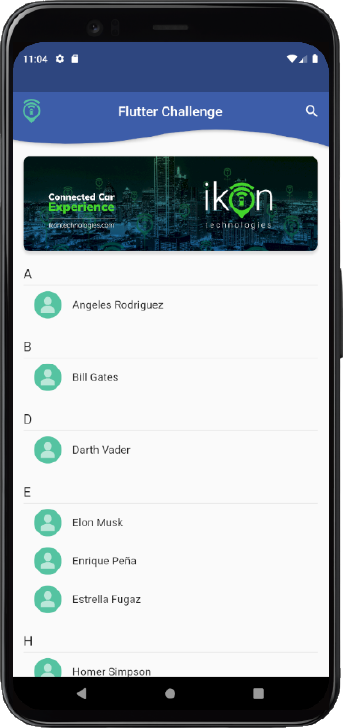
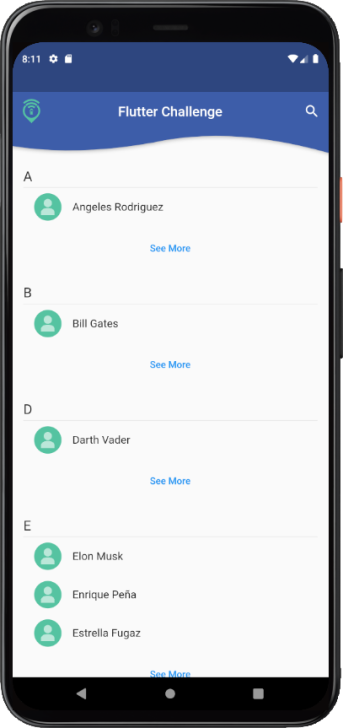
Flutter Challenge v1.0.0 - Jorge Zaragoza
+ Implementación de arquitectura ChangeNotifier + Provider.

diff --git a/lib/widgets/groupview_widget.dart b/lib/widgets/groupview_widget.dart
@@ -1,31 +1,25 @@
 import 'package:flutter/material.dart';
+import 'package:provider/provider.dart';
 import 'package:sliver_tools/sliver_tools.dart';
+import 'package:jorge_zaragoza_challenge/provider/data_provider.dart';
 import 'package:jorge_zaragoza_challenge/model/section_model.dart';
-import 'package:jorge_zaragoza_challenge/utils/utils.dart' as utils;
 import 'package:jorge_zaragoza_challenge/widgets/list_item_header_widget.dart';
 import 'package:jorge_zaragoza_challenge/widgets/list_item_widget.dart';
+import 'package:jorge_zaragoza_challenge/utils/utils.dart' as utils;
 
-/// Create a Widget with header, items, and footer.
-///
-/// header is optional
-/// items is required
-/// footer is optional
+/// Create a Widget with items grouped by the first letter.
 class GroupView extends StatelessWidget {
-  final Widget? header;
   final List<String> items;
-  final Widget? footer;
 
-  const GroupView({Key? key, this.header, required this.items, this.footer})
-      : super(key: key);
+  const GroupView({Key? key, required this.items}) : super(key: key);
 
   @override
   Widget build(BuildContext context) {
-    List<SectionModel> listOfSections = utils.groupByCharacter(items);
+    final provider = Provider.of<DataProvider>(context);
 
     return CustomScrollView(slivers: [
-      SliverPadding(padding: const EdgeInsets.only(top: 30)),
-      _buildGenericTag(header),
-      ...listOfSections
+      SliverPadding(padding: const EdgeInsets.only(top: 50)),
+      ...provider.initialSections
           .map(
             (newsSection) => SliverPadding(
               padding: EdgeInsets.all(utils.pading16).copyWith(top: 0),
@@ -38,36 +32,61 @@ class GroupView extends StatelessWidget {
             ),
           )
           .toList(),
-      _buildGenericTag(footer),
-      SliverPadding(padding: const EdgeInsets.only(bottom: 30)),
+      SliverPadding(padding: const EdgeInsets.only(top: 50)),
     ]);
   }
 
-  /// Display header or footer of the list
-  Widget _buildGenericTag(Widget? tag) {
-    return SliverToBoxAdapter(child: tag);
+  /// Display the header of each group
+  Widget _buildSectionHeader(BuildContext context, SectionModel section) {
+    return MultiSliver(
+      children: <Widget>[
+        SliverPinnedHeader(child: ListItemHeaderWidget(title: section.title)),
+        SliverClip(
+          child: MultiSliver(
+            children: <Widget>[
+              _buildSectionDataList(section),
+              SliverToBoxAdapter(child: _buildFooterSeeMore(context, section)),
+            ],
+          ),
+        ),
+      ],
+    );
   }
 
-  /// Display the header of each group
-  Widget _buildSectionHeader(BuildContext context, SectionModel section) =>
-      MultiSliver(
-        children: <Widget>[
-          SliverPinnedHeader(child: ListItemHeaderWidget(title: section.title)),
-          SliverClip(
-            child: MultiSliver(
-              children: <Widget>[
-                _buildSectionDataList(section),
-              ],
-            ),
-          ),
-        ],
-      );
-
   /// Display the list of the data in each group
-  Widget _buildSectionDataList(SectionModel section) => SliverList(
-        delegate: SliverChildBuilderDelegate(
-          (context, index) => ListItemWidget(text: section.data[index]),
-          childCount: section.data.length,
-        ),
-      );
+  Widget _buildSectionDataList(SectionModel section) {
+    return SliverList(
+      delegate: SliverChildBuilderDelegate(
+        (context, index) =>
+            ListItemWidget(index: index, text: section.data[index]),
+        childCount: section.data.length,
+      ),
+    );
+  }
+
+  Widget _buildFooterSeeMore(BuildContext context, SectionModel section) {
+    final bool loading = section.isLoading;
+
+    return !section.isComplete
+        ? Container(
+            height: 64,
+            child: AnimatedSwitcher(
+              duration: const Duration(milliseconds: 200),
+              child: loading
+                  ? const CircularProgressIndicator()
+                  : TextButton(
+                      child: Text(
+                        'See More',
+                      ),
+                      onPressed: () {
+                        final provider =
+                            Provider.of<DataProvider>(context, listen: false);
+
+                        provider.fetchMoreSections(section);
+                      },
+                    ),
+            ),
+          )
+        : Container();
+  }
 }

diff --git a/lib/pages/contacts/contacts_page.dart b/lib/pages/contacts/contacts_page.dart
@@ -1,7 +1,5 @@
 import 'package:flutter/material.dart';
-import 'package:animate_do/animate_do.dart' as anim;
 import 'package:jorge_zaragoza_challenge/data/contacts_data.dart' as data;
-import 'package:jorge_zaragoza_challenge/utils/utils.dart' as utils;
 import 'package:jorge_zaragoza_challenge/widgets/groupview_widget.dart';
 import 'package:jorge_zaragoza_challenge/utils/custom_shape_border.dart';
 import 'package:jorge_zaragoza_challenge/utils/search_data_delegate.dart';
@@ -13,11 +11,7 @@ class ContactsPage extends StatelessWidget {
   Widget build(BuildContext context) {
     return Scaffold(
       appBar: _buildAppBarContacts(context),
-      body: GroupView(
-        header: _buildHeaderList(context, 'assets/ikon_header.jpg'),
-        items: data.contactsData,
-        footer: _buildFooterList(context, 'End of contact list'),
-      ),
+      body: GroupView(items: data.contactsData),
     );
   }
 
@@ -47,37 +41,6 @@ class ContactsPage extends StatelessWidget {
           },
         ),
       ],
-    );
-  }
-
-  /// Create a Widget to display as a header
-  anim.FadeInDown _buildHeaderList(BuildContext context, String image) {
-    return anim.FadeInDown(
-      child: Container(
-        margin: const EdgeInsets.all(utils.pading16),
-        decoration: BoxDecoration(
-          borderRadius: BorderRadius.circular(10),
-          boxShadow: utils.card_shadow,
-        ),
-        height: utils.getScreenHeight(context) * 0.15,
-        child: ClipRRect(
-          borderRadius: BorderRadius.circular(10),
-          child: Image.asset(
-            image,
-            fit: BoxFit.cover,
-          ),
-        ),
-      ),
-    );
-  }
-
-  /// Create a Widget to display as a footer
-  Container _buildFooterList(BuildContext context, String text) {
-    return Container(
-      height: utils.getScreenHeight(context) * 0.05,
-      child: Center(
-        child: Text(text),
-      ),
     );
   }
 }

diff --git a/lib/main.dart b/lib/main.dart
@@ -1,23 +1,35 @@
 import 'package:flutter/material.dart';
+import 'package:flutter/services.dart';
+import 'package:jorge_zaragoza_challenge/provider/data_provider.dart';
 import 'package:jorge_zaragoza_challenge/theme/theme.dart';
 import 'package:jorge_zaragoza_challenge/routes/app_routes.dart';
 import 'package:jorge_zaragoza_challenge/widgets/scroll_grow_remover.dart';
+import 'package:provider/provider.dart';
 
-void main() => runApp(MyApp());
+void main() async {
+  WidgetsFlutterBinding.ensureInitialized();
+  await SystemChrome.setPreferredOrientations([
+    DeviceOrientation.portraitUp,
+    DeviceOrientation.portraitDown,
+  ]);
+
+  runApp(MyApp());
+}
 
 /// App with dark mode support
 class MyApp extends StatelessWidget {
   @override
-  Widget build(BuildContext context) {
-    return MaterialApp(
-      title: 'Flutter Challenge',
-      theme: themeLight,
-      darkTheme: ThemeData.dark(),
-      debugShowCheckedModeBanner: false,
-      initialRoute: '/',
-      routes: appRoutes,
-      builder: (context, child) =>
-          ScrollConfiguration(behavior: ScrollGrowRemover(), child: child!),
-    );
-  }
+  Widget build(BuildContext context) => ChangeNotifierProvider(
+        create: (context) => DataProvider(),
+        child: MaterialApp(
+          title: 'Flutter Challenge',
+          theme: themeLight,
+          darkTheme: ThemeData.dark(),
+          debugShowCheckedModeBanner: false,
+          initialRoute: '/',
+          routes: appRoutes,
+          builder: (context, child) =>
+              ScrollConfiguration(behavior: ScrollGrowRemover(), child: child!),
+        ),
+      );
 }

diff --git a/lib/provider/data_provider.dart b/lib/provider/data_provider.dart
@@ -1,0 +1,40 @@
+import 'package:flutter/material.dart';
+import 'package:jorge_zaragoza_challenge/data/contacts_data.dart' as data;
+import 'package:jorge_zaragoza_challenge/utils/utils.dart' as utils;
+import 'package:jorge_zaragoza_challenge/model/section_model.dart';
+
+/// DataProvider is used to manage the state of Widgets
+class DataProvider extends ChangeNotifier {
+  final _initialSections = utils.groupByCharacter(data.contactsData);
+
+  List<SectionModel> get initialSections => _initialSections;
+
+  List<dynamic> _dataSection(SectionModel currentSection) => _initialSections
+      .where((section) => section.title == currentSection.title)
+      .first
+      .data;
+
+  /// Load more sections to the list
+  Future fetchMoreSections(SectionModel currentSection) async {
+    final newSections = _initialSections
+        .where((section) => section.title == currentSection.title)
+        .first;
+    newSections.isLoading = true;
+    notifyListeners();
+
+    await Future.delayed(Duration(milliseconds: 600));
+    for (int i = 0; i < currentSection.data.length; i++) {
+      if (i % 2 == 0) {
+        _dataSection(currentSection).add(currentSection.data[i]);
+      }
+    }
+    notifyListeners();
+
+    final finalSections = _initialSections
+        .where((section) => section.title == currentSection.title)
+        .first;
+    finalSections.isComplete = true;
+    finalSections.isLoading = false;
+    notifyListeners();
+  }
+}

diff --git a/lib/widgets/list_item_widget.dart b/lib/widgets/list_item_widget.dart
@@ -2,15 +2,17 @@ import 'package:flutter/material.dart';
 
 /// Design of each item in the group
 class ListItemWidget extends StatelessWidget {
+  final int index;
   final String text;
 
-  const ListItemWidget({Key? key, required this.text}) : super(key: key);
+  const ListItemWidget({Key? key, required this.index, required this.text})
+      : super(key: key);
 
   @override
   Widget build(BuildContext context) {
     return ListTile(
       leading: Hero(
-        tag: text,
+        tag: '$text$index',
         child: CircleAvatar(
           backgroundColor: Theme.of(context).accentColor,
           child: Image.asset(
@@ -22,8 +24,8 @@ class ListItemWidget extends StatelessWidget {
         ),
       ),
       title: Text(text),
-      onTap: () =>
-          Navigator.pushNamed(context, 'contacts/detail', arguments: text),
+      onTap: () => Navigator.pushNamed(context, 'contacts/detail',
+          arguments: '$text$index'),
     );
   }
 }

diff --git a/lib/utils/utils.dart b/lib/utils/utils.dart
@@ -53,8 +53,6 @@ List<SectionModel> groupByCharacter(List<String> data) {
       .map((e) => {e.key: e.value})
       .toList();
 
-  print((result[0] as Map).keys);
-
   List<Map> toMap = [];
   List<SectionModel> sections = [];
   toMap.addAll(result as List<Map>);
@@ -65,17 +63,14 @@ List<SectionModel> groupByCharacter(List<String> data) {
 
     for (String key in toMap[i].keys) {
       sectionKey = key;
-      print('Keys: $sectionKey');
     }
 
     for (List<dynamic> value in toMap[i].values) {
       sectionValue = value;
-      print('Values: $sectionValue');
     }
 
     SectionModel newSection =
         SectionModel(title: sectionKey, data: sectionValue);
-    print('Section: ${newSection.toString()}');
     sections.add(newSection);
   }
 

diff --git a/lib/utils/search_data_delegate.dart b/lib/utils/search_data_delegate.dart
@@ -37,7 +37,8 @@ class SearchDataDelegate extends SearchDelegate<String> {
 
     return ListView.builder(
       itemCount: allData.length,
-      itemBuilder: (context, index) => ListItemWidget(text: allData[index]),
+      itemBuilder: (context, index) =>
+          ListItemWidget(index: index, text: allData[index]),
     );
   }
 
@@ -50,7 +51,8 @@ class SearchDataDelegate extends SearchDelegate<String> {
 
     return ListView.builder(
       itemCount: allData.length,
-      itemBuilder: (context, index) => ListItemWidget(text: allData[index]),
+      itemBuilder: (context, index) =>
+          ListItemWidget(index: index, text: allData[index]),
     );
   }
 }

diff --git a/lib/utils/custom_shape_border.dart b/lib/utils/custom_shape_border.dart
@@ -10,7 +10,7 @@ class CustomShapeBorder extends ContinuousRectangleBorder {
   @override
   Path getOuterPath(Rect rect, {TextDirection? textDirection}) {
     return util.curvePath(
-      Size(util.getScreenWidth(context), util.getScreenHeight(context) * 0.17),
+      Size(util.getScreenWidth(context), util.getScreenHeight(context) * 0.18),
       10.0,
       10.25,
     );

diff --git a/lib/pages/contacts/contact_detail_page.dart b/lib/pages/contacts/contact_detail_page.dart
@@ -60,7 +60,7 @@ class ContactDetailPage extends StatelessWidget {
       child: Container(
         padding: const EdgeInsets.all(10),
         child: Text(
-          args,
+          args.substring(0, args.length - 1),
           style: const TextStyle(fontSize: 32),
         ),
       ),

diff --git a/lib/model/section_model.dart b/lib/model/section_model.dart
@@ -2,6 +2,8 @@
 class SectionModel {
   final String title;
   final List<dynamic> data;
+  bool isLoading = false;
+  bool isComplete = false;
 
   SectionModel({
     required this.title,
